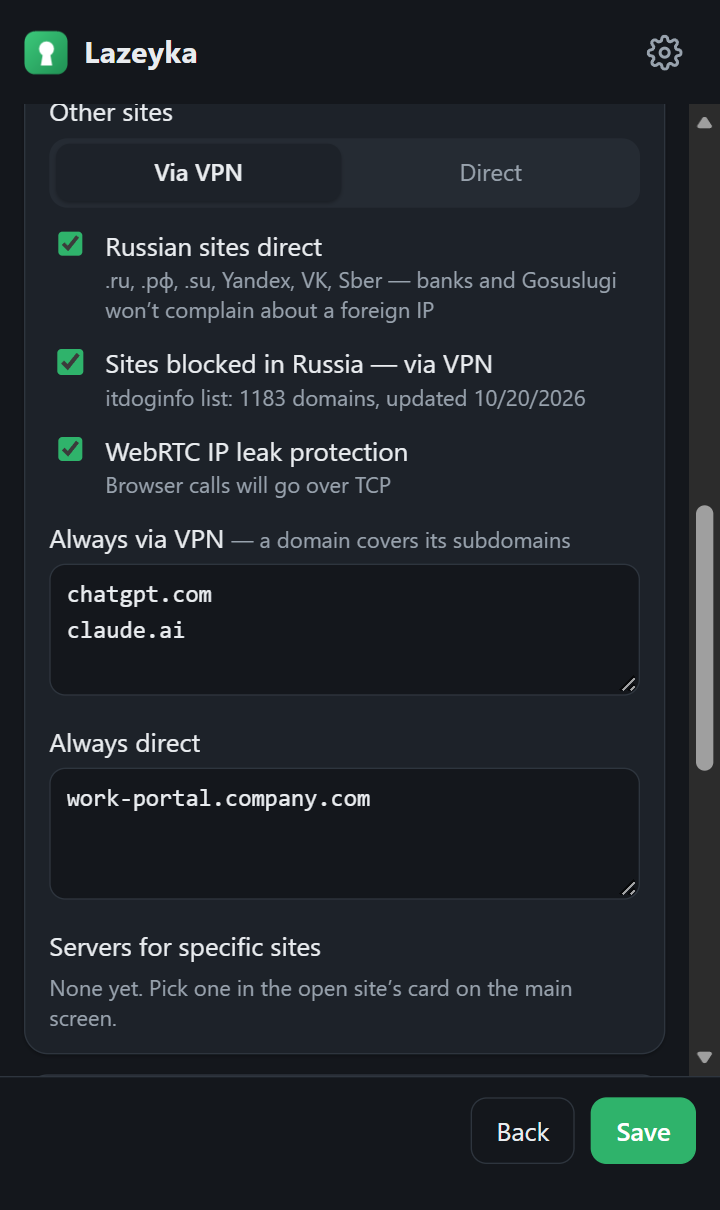
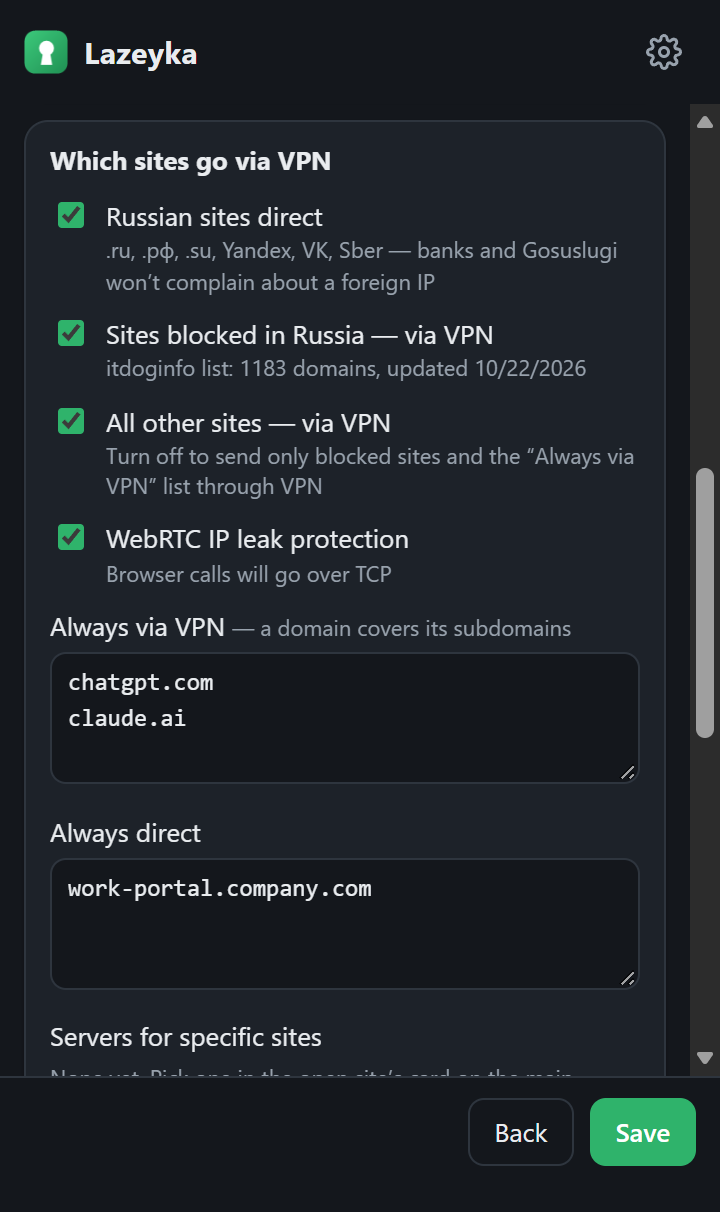
1.8.2: «Остальные сайты» — галочкой вместо переключателя, похожего на вкладки; README и сайт: curl на Linux (#16)

diff --git a/site/index.html b/site/index.html
@@ -110,7 +110,7 @@
     <div class="wrap gallery">
       <figure><img src="images/main.png" width="720" height="1300" alt="Лазейка включена: карточка открытого сайта и серверы по подпискам" loading="lazy"><figcaption>Карточка сайта и серверы по подпискам</figcaption></figure>
       <figure><img src="images/site-server.png" width="720" height="1300" alt="Свой сервер для сайта" loading="lazy"><figcaption>Свой сервер для сайта</figcaption></figure>
-      <figure><img src="images/settings-rules.png" width="720" height="1210" alt="Настройки: какие сайты через VPN" loading="lazy"><figcaption>Какие сайты через VPN</figcaption></figure>
+      <figure><img src="images/settings-rules.png" width="720" height="1212" alt="Настройки: какие сайты через VPN" loading="lazy"><figcaption>Какие сайты через VPN</figcaption></figure>
     </div>
   </section>
 
@@ -139,7 +139,8 @@
         <li><h3>Поставь ядро одной командой</h3><p>Windows: нажми Win + X → «Терминал», вставь команду и нажми Enter. Через полминуты появится зелёное «Готово». Права администратора не нужны.</p>
           <div class="cmd"><code id="cmd">irm https://raw.githubusercontent.com/DUFUSxD/lazeyka/main/install.ps1 | iex</code><button type="button" data-copy="cmd">Скопировать</button></div>
           <p>macOS и Linux: открой терминал (на Mac — Cmd + Пробел → «Терминал») и выполни:</p>
-          <div class="cmd"><code id="cmd-sh">curl -fsSL https://raw.githubusercontent.com/DUFUSxD/lazeyka/main/install.sh | sh</code><button type="button" data-copy="cmd-sh">Скопировать</button></div></li>
+          <div class="cmd"><code id="cmd-sh">curl -fsSL https://raw.githubusercontent.com/DUFUSxD/lazeyka/main/install.sh | sh</code><button type="button" data-copy="cmd-sh">Скопировать</button></div>
+          <p>Linux ответил «curl: command not found»? Сначала <code>sudo apt install curl</code> (Ubuntu, Debian, Mint), <code>sudo dnf install curl</code> (Fedora) или <code>sudo pacman -S curl</code> (Arch) — и повтори команду.</p></li>
         <li><h3>Добавь расширение в браузер</h3><p>На странице расширений включи «Режим разработчика», нажми «Загрузить распакованное» и выбери папку <code>%LOCALAPPDATA%\Lazeyka\extension</code> (на macOS и Linux — <code>~/Lazeyka/extension</code>).</p></li>
         <li><h3>Вставь secret и подписку</h3><p>Secret уже в буфере обмена после установки. Вставь его и ссылку на подписку в настройках, нажми «Сохранить» и большую кнопку.</p></li>
       </ol>

diff --git a/site/en/index.html b/site/en/index.html
@@ -110,7 +110,7 @@
     <div class="wrap gallery">
       <figure><img src="../images/main-en.png" width="720" height="1300" alt="Lazeyka is on: open site card and servers by subscription" loading="lazy"><figcaption>Site card and servers by subscription</figcaption></figure>
       <figure><img src="../images/site-server-en.png" width="720" height="1300" alt="A dedicated server for a site" loading="lazy"><figcaption>A dedicated server for a site</figcaption></figure>
-      <figure><img src="../images/settings-rules-en.png" width="720" height="1210" alt="Settings: which sites go via VPN" loading="lazy"><figcaption>Which sites go via VPN</figcaption></figure>
+      <figure><img src="../images/settings-rules-en.png" width="720" height="1212" alt="Settings: which sites go via VPN" loading="lazy"><figcaption>Which sites go via VPN</figcaption></figure>
     </div>
   </section>
 
@@ -138,7 +138,8 @@
         <li><h3>Install the core with one command</h3><p>Windows: press Win + X → “Terminal”, paste the command and press Enter. The installer talks in Russian — when you see the green «Готово» (“Done”), it's finished. No admin rights needed.</p>
           <div class="cmd"><code id="cmd">irm https://raw.githubusercontent.com/DUFUSxD/lazeyka/main/install.ps1 | iex</code><button type="button" data-copy="cmd">Copy</button></div>
           <p>macOS and Linux: open a terminal (on a Mac — Cmd + Space → “Terminal”) and run:</p>
-          <div class="cmd"><code id="cmd-sh">curl -fsSL https://raw.githubusercontent.com/DUFUSxD/lazeyka/main/install.sh | sh</code><button type="button" data-copy="cmd-sh">Copy</button></div></li>
+          <div class="cmd"><code id="cmd-sh">curl -fsSL https://raw.githubusercontent.com/DUFUSxD/lazeyka/main/install.sh | sh</code><button type="button" data-copy="cmd-sh">Copy</button></div>
+          <p>Linux says “curl: command not found”? First run <code>sudo apt install curl</code> (Ubuntu, Debian, Mint), <code>sudo dnf install curl</code> (Fedora) or <code>sudo pacman -S curl</code> (Arch), then repeat the command.</p></li>
         <li><h3>Add the extension to your browser</h3><p>On the extensions page turn on “Developer mode”, click “Load unpacked” and pick <code>%LOCALAPPDATA%\Lazeyka\extension</code> (on macOS and Linux — <code>~/Lazeyka/extension</code>).</p></li>
         <li><h3>Paste the secret and your subscription</h3><p>The secret is already in your clipboard after install. Paste it and your subscription link in settings, click “Save”, then the big button.</p></li>
       </ol>

diff --git a/extension/popup.js b/extension/popup.js
@@ -37,7 +37,6 @@ $('updHint').textContent = t('{0}, вставь команду и Enter — да
 const copied = () => toast(t('Команда скопирована: {0} → вставить → Enter', t(OS.runShort)));
 let on = false;
 let h;                 // сводка health(); undefined — ещё не загрузили, null — ядро недоступно
-let rest = s.rest;     // черновик «Остальные сайты» в настройках
 let bindings = {};     // черновик «Свои серверы для сайтов» в настройках
 let polls = 0;         // сколько раз подряд перепроверили «Авто подбирает сервер…»
 let pollTimer;
@@ -626,9 +625,8 @@ for (const [id, opts] of [['pingInterval', PING_OPTIONS], ['updateEvery', UPDATE
 }
 
 function fillSettings() {
-  rest = s.rest;
   bindings = { ...s.siteServers };
-  for (const b of document.querySelectorAll('#restSeg button')) b.setAttribute('aria-checked', String(b.dataset.v === rest));
+  $('restVpn').checked = s.rest === 'vpn';
   for (const k of ['ruDirect', 'useBlocked', 'webrtc', 'subViaVpn', 'hideDead', 'pingOnOpen']) $(k).checked = s[k];
   for (const k of ['pingInterval', 'updateEvery', 'sortServers', 'lang']) $(k).value = s[k];
   renderMetaHint();
@@ -657,13 +655,6 @@ function renderBindings() {
     li.append(label, x);
     return li;
   }));
-}
-
-for (const b of document.querySelectorAll('#restSeg button')) {
-  b.onclick = () => {
-    rest = b.dataset.v;
-    for (const x of document.querySelectorAll('#restSeg button')) x.setAttribute('aria-checked', String(x === b));
-  };
 }
 
 function showSettings() {
@@ -728,7 +719,7 @@ $('save').onclick = () => run(() => busy($('save'), async () => {
     subs: subs.map((x) => x.url),
     subNames: Object.fromEntries(subs.filter((x) => x.name).map((x) => [x.url, x.name])),
     secret: $('secret').value.trim(),
-    rest,
+    rest: $('restVpn').checked ? 'vpn' : 'direct',
     ruDirect: $('ruDirect').checked,
     useBlocked: $('useBlocked').checked,
     webrtc: $('webrtc').checked,

diff --git a/extension/popup.html b/extension/popup.html
@@ -107,14 +107,9 @@
 
     <section class="card">
       <h3>Какие сайты через VPN</h3>
-      <div class="field">Остальные сайты
-        <div class="seg" id="restSeg" role="radiogroup" aria-label="Остальные сайты">
-          <button data-v="vpn" role="radio">Через VPN</button>
-          <button data-v="direct" role="radio">Напрямую</button>
-        </div>
-      </div>
       <label class="check"><input type="checkbox" id="ruDirect"><span>Российские сайты напрямую<span class="hint">.ru, .рф, .su, Яндекс, VK, Сбер — банки и Госуслуги не ругаются на зарубежный IP</span></span></label>
       <label class="check"><input type="checkbox" id="useBlocked"><span>Заблокированное в РФ — через VPN<span class="hint" id="blockedInfo"></span></span></label>
+      <label class="check"><input type="checkbox" id="restVpn"><span>Все остальные сайты — через VPN<span class="hint">Если выключить, через VPN пойдут только заблокированное и список «Всегда через VPN»</span></span></label>
       <label class="check"><input type="checkbox" id="webrtc"><span>Защита от утечки IP через WebRTC<span class="hint">Звонки в браузере пойдут по TCP</span></span></label>
       <label class="field">Всегда через VPN <span class="hint">— домен покрывает поддомены</span>
         <textarea id="vpnList" rows="3" placeholder="youtube.com&#10;chatgpt.com" spellcheck="false"></textarea>

diff --git a/extension/i18n.js b/extension/i18n.js
@@ -74,10 +74,11 @@ export const EN = {
   'Проверять серверы при открытии окна': 'Check servers when the window opens',
   'Не чаще раза в минуту': 'At most once a minute',
   'Какие сайты через VPN': 'Which sites go via VPN',
-  'Остальные сайты': 'Other sites',
   'Российские сайты напрямую': 'Russian sites direct',
   '.ru, .рф, .su, Яндекс, VK, Сбер — банки и Госуслуги не ругаются на зарубежный IP': '.ru, .рф, .su, Yandex, VK, Sber — banks and Gosuslugi won’t complain about a foreign IP',
   'Заблокированное в РФ — через VPN': 'Sites blocked in Russia — via VPN',
+  'Все остальные сайты — через VPN': 'All other sites — via VPN',
+  'Если выключить, через VPN пойдут только заблокированное и список «Всегда через VPN»': 'Turn off to send only blocked sites and the “Always via VPN” list through VPN',
   'Защита от утечки IP через WebRTC': 'WebRTC IP leak protection',
   'Звонки в браузере пойдут по TCP': 'Browser calls will go over TCP',
   'Всегда через VPN': 'Always via VPN',

diff --git a/README.md b/README.md
@@ -108,6 +108,7 @@
    ```sh
    curl -fsSL https://raw.githubusercontent.com/DUFUSxD/lazeyka/main/install.sh | sh
    ```
+   Linux ответил `curl: command not found` («команда не найдена»)? Сначала поставь curl и повтори команду: `sudo apt install curl` (Ubuntu, Debian, Mint), `sudo dnf install curl` (Fedora) или `sudo pacman -S curl` (Arch). Терминал спросит пароль от твоей учётной записи — он нужен только для curl, сама Лазейка ставится без него. На macOS curl есть всегда.
 3. Через полминуты появится **«Готово»** и secret. На macOS он уже в буфере обмена, на Linux — если установлен `wl-copy` или `xclip`; иначе скопируй его прямо из окна терминала.
 
 Лазейка ставится в папку `~/Lazeyka`, ядро само запускается при входе в систему (macOS — LaunchAgent, Linux — `systemd --user`). Права администратора не нужны. macOS может показать уведомление о новом фоновом объекте `mihomo` — это ядро Лазейки, так и должно быть. Не выключай его в «Объектах входа», иначе после перезагрузки ядро само не запустится.
@@ -242,12 +243,12 @@
 
 ### Готовые варианты
 
-| Хочу | «Остальные сайты» | Российские напрямую | Заблокированное через VPN |
+| Хочу | Российские напрямую | Заблокированное через VPN | Все остальные через VPN |
 |---|---|---|---|
-| **Всё через VPN, но банки и Госуслуги работают** (так по умолчанию) | Через VPN | ✅ | ✅ |
-| **Только заблокированное через VPN** — быстрее всего, меньше расход трафика | Напрямую | ✅ | ✅ |
-| **Только мои сайты через VPN** | Напрямую | неважно | ❌ — и заполни «Всегда через VPN» |
-| **Вообще всё через VPN** | Через VPN | ❌ | ✅ |
+| **Всё через VPN, но банки и Госуслуги работают** (так по умолчанию) | ✅ | ✅ | ✅ |
+| **Только заблокированное через VPN** — быстрее всего, меньше расход трафика | ✅ | ✅ | ❌ |
+| **Только мои сайты через VPN** | неважно | ❌ — и заполни «Всегда через VPN» | ❌ |
+| **Вообще всё через VPN** | ❌ | ✅ | ✅ |
 
 ## Обновления
 

diff --git a/README.en.md b/README.en.md
@@ -107,6 +107,7 @@ Everything is per-user — no admin rights needed.
    ```sh
    curl -fsSL https://raw.githubusercontent.com/DUFUSxD/lazeyka/main/install.sh | sh
    ```
+   Linux says `curl: command not found`? Install curl first and run the command again: `sudo apt install curl` (Ubuntu, Debian, Mint), `sudo dnf install curl` (Fedora) or `sudo pacman -S curl` (Arch). The terminal asks for your account password — it's only needed for curl; Lazeyka itself installs without it. macOS always has curl.
 3. In half a minute you'll see **«Готово»** (“Done”) and the secret. On macOS it's already in the clipboard; on Linux too if `wl-copy` or `xclip` is installed — otherwise copy it from the terminal window.
 
 Lazeyka goes to `~/Lazeyka`, the core starts by itself when you log in (macOS — LaunchAgent, Linux — `systemd --user`). No admin rights needed. macOS may show a “Background Items Added” notification mentioning `mihomo` — that is Lazeyka's core and it is expected. Don't switch it off in Login Items, or the core won't start by itself after a reboot.
@@ -243,12 +244,12 @@ Not in Russia? Turn off “Russian sites direct” and “Sites blocked in Russi
 
 ### Presets
 
-| I want | “Other sites” | Russian sites direct | Blocked in Russia via VPN |
+| I want | Russian sites direct | Blocked in Russia via VPN | All other sites via VPN |
 |---|---|---|---|
-| **Everything via VPN, but banks and Gosuslugi work** (default) | Via VPN | ✅ | ✅ |
-| **Only blocked sites via VPN** — fastest, least traffic | Direct | ✅ | ✅ |
-| **Only my sites via VPN** | Direct | doesn't matter | ❌ — and fill in “Always via VPN” |
-| **Absolutely everything via VPN** | Via VPN | ❌ | ✅ |
+| **Everything via VPN, but banks and Gosuslugi work** (default) | ✅ | ✅ | ✅ |
+| **Only blocked sites via VPN** — fastest, least traffic | ✅ | ✅ | ❌ |
+| **Only my sites via VPN** | doesn't matter | ❌ — and fill in “Always via VPN” | ❌ |
+| **Absolutely everything via VPN** | ❌ | ✅ | ✅ |
 
 ## Updates
 

diff --git a/docs/architecture.md b/docs/architecture.md
@@ -55,7 +55,7 @@ flowchart TD
 | 2 | свои списки: «Всегда через VPN», «Всегда напрямую», домены со своим сервером (всегда VPN) — **побеждает самый точный домен** | как указано |
 | 3 | список заблокированного в РФ (если включён) | VPN |
 | 4 | российские зоны и сервисы (`RU` в `lib.js`, если включено) | напрямую |
-| 5 | «Остальные сайты» | VPN или напрямую |
+| 5 | всё остальное | VPN, если стоит галочка «Все остальные сайты — через VPN», иначе напрямую |
 
 Ответ PAC — либо `DIRECT`, либо `SOCKS5 127.0.0.1:17890` **без** запасного `; DIRECT`: если ядро недоступно, сайт не откроется, а не пойдёт мимо VPN (kill switch). Через SOCKS5 Chromium отдаёт ядру имя сайта, DNS резолвится на стороне сервера.
 
@@ -154,7 +154,7 @@ sequenceDiagram
 | `pingInterval` | секунды между проверками серверов (`PING_OPTIONS`) | ✅ |
 | `updateEvery` | минуты между проверками обновлений, `0` — вручную (`UPDATE_OPTIONS`) | ✅ |
 | `secret` | secret ядра (свой на каждом компьютере) | ❌ |
-| `rest` | `vpn` / `direct` — «Остальные сайты» | ✅ |
+| `rest` | `vpn` / `direct` — галочка «Все остальные сайты — через VPN» | ✅ |
 | `ruDirect`, `useBlocked`, `webrtc`, `subViaVpn` | галочки в настройках | ✅ |
 | `subsViaVpn` | ссылки подписок, которые не скачались напрямую и качаются через ⚡ Авто (заполняет `refreshSubs`) | ❌ — своё для каждой сети |
 | `vpnList`, `directList` | свои списки доменов | ✅ |

diff --git a/CHANGELOG.md b/CHANGELOG.md
@@ -2,6 +2,9 @@
 
 Пункты отсюда показываются в окне «Лазейки», когда выходит новая версия.
 
+## 1.8.2
+- В настройках «Остальные сайты» теперь обычная галочка «Все остальные сайты — через VPN», как правила рядом: прежний переключатель было легко принять за вкладки
+
 ## 1.8.1
 - Кнопки показывают, что работа идёт: на «Пинг», «Обновить», «Сохранить» и тесте скорости крутится кружок, у кнопки обновления подписок — стрелка
 
